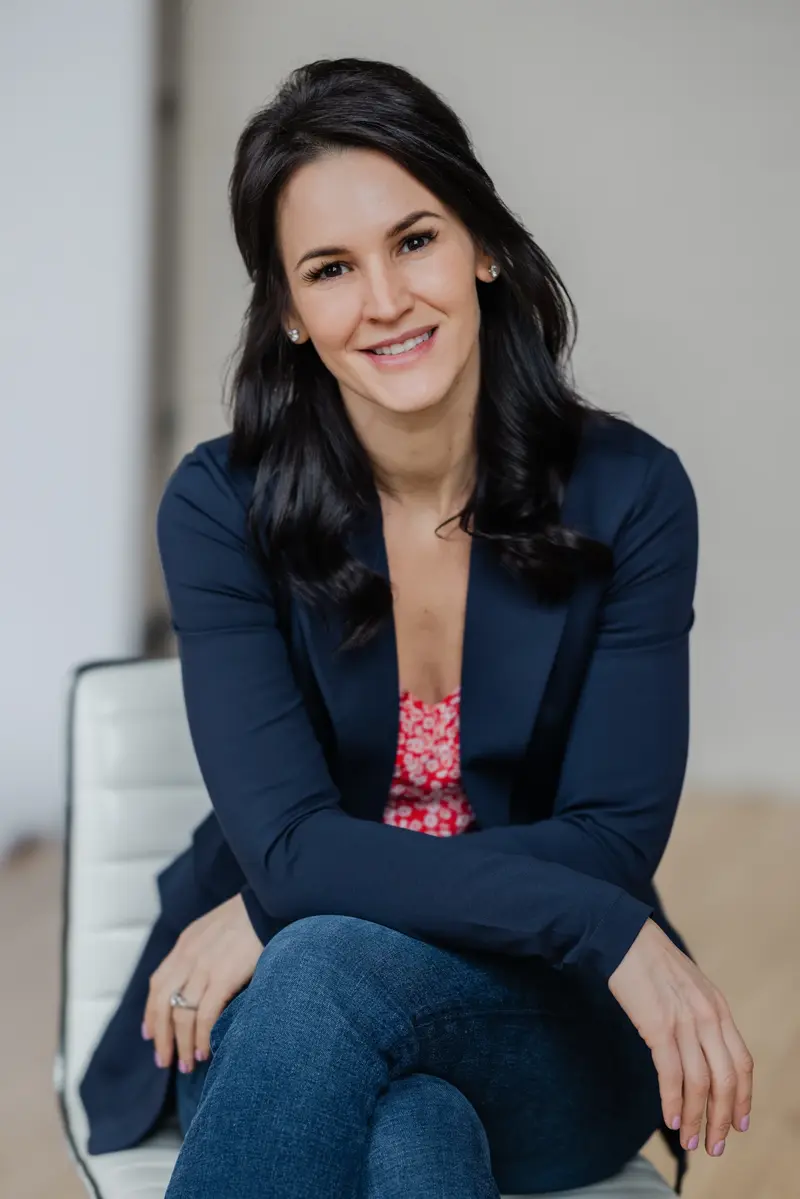
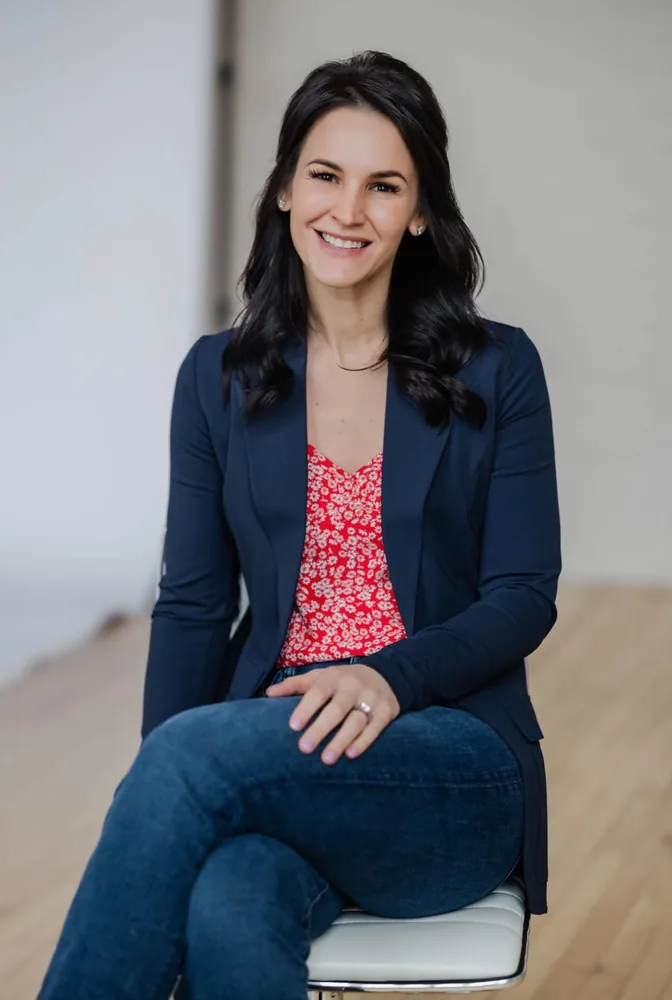
About page: full team bios and portraits
Seven staff (Jeremy Turner, Jonathan Henderson, Jordan Cloutier, Shawna
Allen, Travis Turner, Orion Poulin, Sandra Carpenter) and the two trusted
local partners (Brendan Fontaine, Anna Boucher), with the bios and photos
from the team's bio sheet. Partners show in their own row under the staff.
Sets `founded: 2011` from Jeremy's bio.

Claude-Session: https://claude.ai/code/session_01HTeZ2Wemv8fgvz5MPztLgg

diff --git a/lib/company.ts b/lib/company.ts
@@ -15,10 +15,11 @@
  *
  * What is filled in below is what NERTO publishes about itself: the dealer
  * licence number and the two promises in its hero, the founding story and
- * the three service cards from its About page, and the Google place its
- * reviews live on. Everything the business does not publish — a founding
- * year, a headcount, named staff, a warranty term, a deposit schedule, a
- * mileage a delivery is included to — is absent rather than guessed at, and
+ * the three service cards from its About page, the Google place its
+ * reviews live on, and the team's own bios (which give the founding year).
+ * Everything the business does not publish — a headcount, a warranty term,
+ * a deposit schedule, a mileage a delivery is included to — is absent
+ * rather than guessed at, and
  * the sections that read those fields hide themselves. Fill one in only from
  * something NERTO has actually put in writing.
  */
@@ -31,7 +32,11 @@ export type TeamMember = {
   role: string;
   /** Year they joined. Omit if you don't know it — the card drops the line. */
   since?: string;
-  body: string;
+  /** One paragraph, or several. */
+  body: string | string[];
+  /** An outside professional NERTO works alongside — a lender, an agent —
+      rather than staff. Shown under "Trusted local partners". */
+  partner?: boolean;
   /** Somewhere to read more about them — a brokerage profile, a lender page. */
   link?: { href: string; label: string };
 };
@@ -141,6 +146,8 @@ export type Company = {
 };
 
 export const company: Company = {
+  /* Jeremy Turner's bio: NERTO Homes was "established in 2011". */
+  founded: 2011,
   /* Shown in the trust row under the hero, exactly as NERTO publishes it. */
   licenseId: "452769500",
   badges: ["Financing available", "Delivery included"],
@@ -189,23 +196,86 @@ export const company: Company = {
     ],
   },
 
-  /* From Jordan's note on the team. Each portrait is `page/about-team-N` in
-     `lib/photos.ts`, in this order. More bios to follow. */
+  /* From the team's own bio sheet, in their words. Staff first, then the
+     two outside professionals NERTO works alongside, marked `partner` so the
+     About page shows them apart from the people on payroll. Each portrait is
+     `page/about-team-N` in `lib/photos.ts`, in this order. */
   team: [
     {
+      name: "Jeremy Turner",
+      role: "Co-owner · President, NERTO Homes · Vice President, Asset Development, Inc.",
+      since: "2011",
+      body: [
+        "Jeremy Turner is the co-owner and co-founder of NERTO Homes, established in 2011 with a simple goal: to provide Maine families with an affordable, high-quality path to homeownership. Before NERTO Homes, Jeremy spent his career in the construction industry, gaining the hands-on experience and knowledge that continue to shape the way NERTO Homes operates today.",
+        "That construction background allows Jeremy and his team to offer customers more than just a manufactured or modular home — they can provide a complete turnkey home-buying experience. Serving customers throughout Maine, NERTO Homes specializes in quality manufactured and modular homes with options designed to fit a wide range of needs and budgets. From selecting the right home, to site work, foundations, utilities, installation, and finishing, the goal is to make the process as straightforward and stress-free as possible.",
+        "For Jeremy, NERTO Homes is about more than selling houses. It's about helping Maine families build a place they can call home while providing honest service, quality workmanship, and real value from start to finish.",
+      ],
+    },
+    {
+      name: "Jonathan Henderson",
+      role: "General Manager",
+      since: "2018",
+      body: [
+        "Jonathan Henderson joined the team in January 2018, beginning his career with the company in sales. He was promoted to Sales Manager in 2022 and General Manager in 2023.",
+        "Jonathan and his wife have been married since 2010 and have two children. Their family also serves as foster parents, providing a caring home for children in need. Outside of work, the Henderson family enjoys hiking in New Hampshire, taking walks along the local rail trail, and spending time together. Family board game nights are a favorite in the Henderson household, and they tend to get a little competitive!",
+      ],
+    },
+    {
+      name: "Jordan Cloutier",
+      role: "Sales Manager",
+      since: "2025",
+      body: [
+        "Jordan joined NERTO Homes in January 2025, bringing more than 10 years of business development experience and a strong focus on customer relationships. As Sales Manager, he helps clients navigate the homebuying process, from choosing the right home and personalizing finishes to coordinating with lenders, realtors, and NERTO's project team.",
+        "Whether clients already own land or are searching for the perfect homesite, Jordan helps bring the pieces together. He works closely with the people involved in each project to keep communication clear and help clients move confidently toward closing and getting their keys.",
+        "Jordan also supports NERTO's marketing, community events, and professional partnerships. His approach is friendly, straightforward, and low pressure, with a commitment to helping every client feel informed, supported, and excited about their new home.",
+      ],
+    },
+    {
+      name: "Shawna Allen",
+      role: "Project Manager",
+      since: "2025",
+      body: "I've been with NERTO since November 2025 and have enjoyed being part of the team and contributing to the work we do. Outside of NERTO, I enjoy home projects and design, spending time with my family and pets, and traveling whenever I get the chance. I'm always up for a new project, a new place to explore, or simply enjoying time with the people and animals who mean the most to me.",
+    },
+    {
+      name: "Travis Turner",
+      role: "Superintendent",
+      body: [
+        "Travis has been an integral part of the NERTO Homes team for six years. As Superintendent, he leads our set and finish crews, making sure every home comes together with care and attention to detail. Travis is the person behind those finishing touches that make walking through your new home for the first time truly breathtaking.",
+        "His dedication and leadership help bring our clients' dreams to life, making him an essential part of what we do at NERTO.",
+        "Outside of work, Travis enjoys boating, water sports, hiking, and snowmobiling. Whether he's on the water or out on the trails, he loves making the most of Maine's outdoors.",
+      ],
+    },
+    {
+      name: "Orion Poulin",
+      role: "Earthwork Superintendent",
+      body: "Orion has been with NERTO Homes for a year. He is in charge of our earthwork teams: he helps with site analysis, responds to any needed call backs, and coordinates projects for the earthwork team. Outside of work Orion is an avid poker player and likes to spend time with his family.",
+    },
+    {
+      name: "Sandra Carpenter",
+      role: "Admin Assistant",
+      /* Her sheet said "a month ago", which would be wrong within a month of
+         publishing; "recently" says the same thing and stays true longer. */
+      body: "Hi, I'm Sandra Carpenter! I recently joined New England Rent to Own and am excited to get to know the team, learn new things, and grow in my role. Outside of work, I enjoy scrapbooking and crafting — creative outlets that let me add a personal touch and preserve special memories. I also love outdoor adventures with my three boys, exploring together and making memories along the way.",
+    },
+    {
+      name: "Brendan Fontaine",
+      role: "Loan Officer · Guild Mortgage · NMLS #102571",
+      partner: true,
+      body: "Brendan Fontaine is a Mortgage Loan Originator with Guild Mortgage, licensed in Maine and Florida. With over two decades of experience, he specializes in FHA, VA, USDA, Conventional, and MaineHousing loans, providing trusted guidance and personalized financing solutions. Brendan has been recognized as a Top Mortgage Originator by Scotsman Guide and Mortgage Executive Magazine for his outstanding production and commitment to serving homebuyers.",
+      link: { href: "/financing#lender", label: "Talk to Brendan about financing" },
+    },
+    {
       name: "Anna Boucher",
-      role: "Real estate agent · Summit Real Estate",
-      body: "Anna is part of the NERTO Homes team and a real estate agent with Summit Real Estate in Maine.",
+      role: "Realtor · Summit Real Estate",
+      partner: true,
+      body: [
+        "Anna has been working alongside NERTO Homes for several years, helping buyers navigate the process from finding the right piece of land all the way to getting the keys to their new home. Over the years, Anna and the NERTO team have worked together to fine tune the process, making the land, home, and closing pieces work as seamlessly as possible for their clients.",
+        "With more than 20 years of real estate experience, Anna loves finding solutions, putting the pieces together and helping people realize that building a new home may be more attainable than they thought. Outside of real estate, you'll usually find Anna at the barn, on a horse, traveling to a sorting competition with her son Kenny, or spending time with her family. Her philosophy in work and life is pretty simple: We'll figure it out.",
+      ],
       link: {
         href: "https://www.summitofmaine.com/realestate/agent/anna-boucher/",
         label: "Anna's Summit Real Estate profile",
       },
-    },
-    {
-      name: "Brendan Fontaine",
-      role: "Preferred lender · Guild Mortgage · NMLS #102571",
-      body: "Brendan offers FHA — including FHA BOOL, which can take care of the down payment for buyers who already own their land — plus VA, USDA and MaineHousing loans.",
-      link: { href: "/financing#lender", label: "Talk to Brendan about financing" },
     },
   ],
 
@@ -251,9 +321,8 @@ export const company: Company = {
     },
   ],
 
-  /* Deliberately absent, because NERTO does not publish them: `founded`,
-     `homesSoldWords`, `teamSize`, `homesOpenOnLot`, `team`, `teamNote`,
-     `warrantyMonths`, `transportIncludedMiles` and `cashDepositSchedule`.
+  /* Deliberately absent, because NERTO does not publish them:
+     `homesSoldWords`, `teamSize`, `teamNote`, `warrantyMonths`, `transportIncludedMiles` and `cashDepositSchedule`.
      Each one hides its own section. Do not fill one in from a directory
      listing or an estimate — only from something the business has put in
      writing itself. */

diff --git a/app/about/page.tsx b/app/about/page.tsx
@@ -15,7 +15,7 @@ import {
   SectionHeading,
 } from "@/components/ui";
 import { communities } from "@/lib/communities";
-import { company, spellCount, yearsTrading } from "@/lib/company";
+import { company, spellCount, yearsTrading, type TeamMember } from "@/lib/company";
 import { listings, seriesList } from "@/lib/homes";
 import { site } from "@/lib/site";
 import { pages } from "@/lib/page-config";
@@ -44,6 +44,12 @@ export default function AboutPage() {
   if (!pages.about) redirect("/");
 
   const years = yearsTrading();
+
+  /* Each portrait is `page/about-team-N` by position in `company.team`, so
+     the index is taken before staff and partners are split apart. */
+  const team = (company.team ?? []).map((member, i) => ({ member, photo: i + 1 }));
+  const staff = team.filter((t) => !t.member.partner);
+  const partners = team.filter((t) => t.member.partner);
 
   /* Section numbering has to survive a missing section, so it counts up as
      the page renders rather than being written into each heading. */
@@ -175,8 +181,8 @@ export default function AboutPage() {
         </section>
       )}
 
-      {/* Team */}
-      {company.team && company.team.length > 0 && (
+      {/* Team — staff, then the outside professionals NERTO works alongside. */}
+      {staff.length > 0 && (
         <Section>
           <Reveal>
             <SectionHeading
@@ -184,73 +190,25 @@ export default function AboutPage() {
               eyebrow="Who you'll actually meet"
               title={
                 company.teamSize
-                  ? `${sentenceCase(spellCount(company.teamSize))} people. No sales floor.`
-                  : "No sales floor."
+                  ? `${sentenceCase(spellCount(company.teamSize))} people, one team.`
+                  : "The people behind your home."
               }
               lede={company.teamNote}
             />
           </Reveal>
+          <TeamGrid members={staff} />
+        </Section>
+      )}
 
-          {/* As many columns as people, up to four: the grid's gutters are its
-              background, so an empty column would read as a grey slab. */}
-          <div
-            className={cx(
-              "mt-14 grid gap-px overflow-hidden rounded-2xl bg-line sm:grid-cols-2",
-              company.team.length >= 4
-                ? "lg:grid-cols-4"
-                : company.team.length === 3
-                  ? "lg:grid-cols-3"
-                  : "max-w-4xl",
-            )}
-          >
-            {company.team.map((t, i) => (
-              <Reveal key={t.name} delay={i * 80} className="bg-paper">
-                <div className="flex h-full flex-col">
-                  <div className="grain relative aspect-[4/5] overflow-hidden bg-surface-2">
-                    <Scene
-                      kind={(["living", "porch", "kitchen", "bedroom"] as const)[i % 4]}
-                      photoKey={`page/about-team-${i + 1}`}
-                      sizes="(min-width: 1024px) 25vw, (min-width: 640px) 50vw, 100vw"
-                      label={t.name}
-                      className="size-full object-cover"
-                    />
-                    <div className="absolute inset-0 bg-gradient-to-t from-black/70 via-transparent to-transparent" />
-                    <div className="absolute inset-x-0 bottom-0 p-5">
-                      {t.since && (
-                        <p className="font-mono text-[0.65rem] uppercase tracking-[0.2em] text-white/65">
-                          Since {t.since}
-                        </p>
-                      )}
-                      <p className="mt-1 font-display text-xl leading-tight text-white">
-                        {t.name}
-                      </p>
-                      <p className="font-mono text-[0.7rem] text-white/70">{t.role}</p>
-                    </div>
-                  </div>
-                  <div className="flex flex-1 flex-col gap-4 p-6">
-                    <p className="flex-1 text-[0.92rem] leading-relaxed text-muted">{t.body}</p>
-                    {t.link && (
-                      <Link
-                        href={t.link.href}
-                        {...(t.link.href.startsWith("http")
-                          ? { target: "_blank", rel: "noopener noreferrer" }
-                          : {})}
-                        className="inline-flex items-center gap-1.5 text-sm font-semibold text-ink underline-offset-4 hover:underline"
-                      >
-                        {t.link.label}
-                        {t.link.href.startsWith("http") ? (
-                          <Icon.External className="size-3.5" />
-                        ) : (
-                          <Icon.Arrow className="size-3.5" />
-                        )}
-                      </Link>
-                    )}
-                  </div>
-                </div>
-              </Reveal>
-            ))}
-          </div>
-
+      {partners.length > 0 && (
+        <Section className="!pt-0">
+          <Reveal>
+            <SectionHeading
+              eyebrow="Trusted local partners"
+              title="The lender and agent we work alongside."
+            />
+          </Reveal>
+          <TeamGrid members={partners} />
         </Section>
       )}
 
@@ -322,5 +280,67 @@ export default function AboutPage() {
         </Container>
       </section>
     </>
+  );
+}
+
+/* Cards with real gaps rather than hairline gutters: a team of seven never
+   fills its last row, and hairline gutters would show the gap as a slab. */
+function TeamGrid({ members }: { members: { member: TeamMember; photo: number }[] }) {
+  return (
+    <div
+      className={cx(
+        "mt-14 grid gap-6 sm:grid-cols-2",
+        members.length >= 3 ? "lg:grid-cols-3" : "max-w-4xl",
+      )}
+    >
+      {members.map(({ member: t, photo }, i) => (
+        <Reveal key={t.name} delay={(i % 3) * 80}>
+          <div className="flex h-full flex-col overflow-hidden rounded-card border border-line bg-paper">
+            <div className="grain relative aspect-[4/5] overflow-hidden bg-surface-2">
+              <Scene
+                kind={(["living", "porch", "kitchen", "bedroom"] as const)[i % 4]}
+                photoKey={`page/about-team-${photo}`}
+                sizes="(min-width: 1024px) 33vw, (min-width: 640px) 50vw, 100vw"
+                label={t.name}
+                className="size-full object-cover"
+              />
+              <div className="absolute inset-0 bg-gradient-to-t from-black/70 via-transparent to-transparent" />
+              <div className="absolute inset-x-0 bottom-0 p-5">
+                {t.since && (
+                  <p className="font-mono text-[0.65rem] uppercase tracking-[0.2em] text-white/65">
+                    Since {t.since}
+                  </p>
+                )}
+                <p className="mt-1 font-display text-xl leading-tight text-white">{t.name}</p>
+                <p className="font-mono text-[0.7rem] text-white/70">{t.role}</p>
+              </div>
+            </div>
+            <div className="flex flex-1 flex-col gap-4 p-6">
+              <div className="flex-1 space-y-3 text-[0.92rem] leading-relaxed text-muted">
+                {(Array.isArray(t.body) ? t.body : [t.body]).map((p, j) => (
+                  <p key={j}>{p}</p>
+                ))}
+              </div>
+              {t.link && (
+                <Link
+                  href={t.link.href}
+                  {...(t.link.href.startsWith("http")
+                    ? { target: "_blank", rel: "noopener noreferrer" }
+                    : {})}
+                  className="inline-flex items-center gap-1.5 text-sm font-semibold text-ink underline-offset-4 hover:underline"
+                >
+                  {t.link.label}
+                  {t.link.href.startsWith("http") ? (
+                    <Icon.External className="size-3.5" />
+                  ) : (
+                    <Icon.Arrow className="size-3.5" />
+                  )}
+                </Link>
+              )}
+            </div>
+          </div>
+        </Reveal>
+      ))}
+    </div>
   );
 }

diff --git a/lib/photos.ts b/lib/photos.ts
@@ -68,8 +68,8 @@ const feedPhotos: Record<string, string> = Object.fromEntries(
  * `page/projects`, `page/videos`, `page/not-found`,
  * `page/home-closing` (the wide band under the hero),
  * `page/reviews` (behind the testimonials),
- * `page/about-team-1` … `page/about-team-4`, and `blog/<slug>` for a post's
- * hero. Every one of those with no photograph renders as the empty plate,
+ * `page/about-team-N` (one per `company.team` entry, in order), and
+ * `blog/<slug>` for a post's hero. Every one of those with no photograph renders as the empty plate,
  * which is the correct outcome — it is never filled with a stand-in.
  *
  * The homepage hero is the one image that is NOT listed here: it is
@@ -96,8 +96,15 @@ export const photos: Record<string, string> = {
   "page/not-found": "/photos/pages/not-found.webp",
   "page/home-closing": "/photos/pages/home-closing.webp",
   /* Team portraits, in the order of `company.team`. */
-  "page/about-team-1": "/photos/team/anna-boucher.webp",
-  "page/about-team-2": "/photos/team/brendan-fontaine.webp",
+  "page/about-team-1": "/photos/team/jeremy-turner.webp",
+  "page/about-team-2": "/photos/team/jonathan-henderson.webp",
+  "page/about-team-3": "/photos/team/jordan-cloutier.webp",
+  "page/about-team-4": "/photos/team/shawna-allen.webp",
+  "page/about-team-5": "/photos/team/travis-turner.webp",
+  "page/about-team-6": "/photos/team/orion-poulin.webp",
+  "page/about-team-7": "/photos/team/sandra-carpenter.webp",
+  "page/about-team-8": "/photos/team/brendan-fontaine.webp",
+  "page/about-team-9": "/photos/team/anna-boucher.webp",
   /* The NETR G-3160 job, delivered and standing — an actual project photo
      rather than a stock plate, since that is the page's whole argument. */
   "page/projects": "/photos/projects/netr-g-3160/24.jpg",

diff --git a/components/meet-team.tsx b/components/meet-team.tsx
@@ -76,7 +76,10 @@ export function MeetTeam({
                   <p className="text-sm text-white/75">{member.role}</p>
                 </div>
               </div>
-              <p className="flex-1 p-6 text-[0.95rem] leading-relaxed text-muted">{member.body}</p>
+              {/* A teaser, so a several-paragraph bio shows its first paragraph. */}
+              <p className="flex-1 p-6 text-[0.95rem] leading-relaxed text-muted">
+                {Array.isArray(member.body) ? member.body[0] : member.body}
+              </p>
             </div>
           </Reveal>
         ))}

diff --git a/.claude/skills/photos/SKILL.md b/.claude/skills/photos/SKILL.md
@@ -29,7 +29,8 @@ kept its old name), `page/faq`, `page/promotions`, `page/prequalify`,
 `page/address`, `page/blog`, `blog/<slug>`, `page/communities`,
 `page/start-here`, `page/why-manufactured`, `page/financing`, `page/about`,
 `page/contact`, `page/saved`, `page/not-found`, `page/home-closing` (the
-closing band on the homepage), and `page/about-team-1` … `page/about-team-4`.
+closing band on the homepage), and `page/about-team-1` … `page/about-team-N`,
+one per entry in `company.team`, in order.
 
 ## Recipes
 
